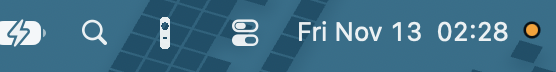
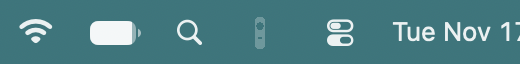
Add Settings screenshots and bilingual usage README.
Document the glass Settings window, A2854 hardware, and personal-use
permissions without device identifiers.

diff --git a/README.md b/README.md
@@ -1,36 +1,54 @@
 # RmoteVibe
 
-Use an **Apple TV Siri Remote** (HID vendor `0x004C`, product `0x0315`, A2854) as a Mac pointer, keyboard, and push-to-talk mic.
+Personal Mac menu-bar app. **Not** for the Mac App Store.
 
-Pair it in Bluetooth like any HID remote. RmoteVibe does **not** need the remote’s serial number.
+Use a **USB-C Apple TV Siri Remote** (model A2854, Apple VID `0x004C` PID `0x0315`, Bluetooth LE HID) as a pointer, keyboard, and push-to-talk mic on Apple Silicon macOS.
 
-用 **Apple TV Siri Remote**（HID 厂商 `0x004C`、产品 `0x0315`，A2854）当 Mac 的触控板、按键和按住说话麦克风。
+个人用的 Mac 菜单栏应用，**不上** Mac App Store。
 
-在系统蓝牙里配对即可。序列号不是配置项。
+把 **USB-C Apple TV Siri Remote**（型号 A2854，Apple VID `0x004C` PID `0x0315`，蓝牙 LE HID）当成 Apple Silicon Mac 的触控板、按键和按住说话麦克风。
 
 ![App icon](docs/screenshots/app-icon.png)
 
 <p align="center">
-  <img src="docs/screenshots/menu-bar.png" alt="Menu bar" width="480">
-  <img src="docs/screenshots/settings.png" alt="Settings" width="480">
+  <img src="docs/screenshots/menu-bar.png" alt="Menu bar icon" width="520">
 </p>
 
-## Features · 功能
+## Usage · 用法
 
-- **Hold Siri for 豆包 / WeChat.** Holding the side Siri button posts the talk key (Fn by default) and, while a Bluetooth HCI trace is readable, feeds the remote’s Opus voice into **RmoteVibe Mic**. 豆包 or 微信输入法 does the recognition. On release, the virtual mic goes back to the Mac microphone.
-- **按住 Siri 给豆包 / 微信说话。** 按住侧面 Siri 键会发出按住说话热键（默认 Fn）。蓝牙 HCI 记录可读时，遥控器的 Opus 语音写入 **RmoteVibe Mic**。识别仍由豆包或微信输入法完成。松开后虚拟麦回到这台 Mac 的麦克风。
-- **Trackpad.** One finger moves the pointer. A short tap clicks. An edge swipe scrolls. Click-ring center plus travel drags.
-- **触控板。** 单指移动指针，短按点击，边缘滑动滚动。按住圆环中心再移动即可拖拽。
-- **Button maps.** Back, Home, Play/Pause, Mute, Volume stay remappable in Settings. Siri stays on voice. Click-ring directions are not mapped in this version.
-- **按键映射。** 返回、主页、播放/暂停、静音、音量可在设置里改。Siri 只负责语音。这一版不映射圆环方向键。
-- **Login item.** Open at login via `SMAppService` (on by default; macOS may still ask in Login Items).
-- **登录项。** 默认用 `SMAppService` 开机启动（系统仍可能要你在「登录项」里点一次允许）。
+- **Menu bar + Settings.** Lives in the menu bar. **Settings…** opens a glass sidebar window (General, Remote, Buttons, Touch, Voice, Permissions).
+- **菜单栏 + 设置。** 驻留菜单栏。点 **设置…** 打开玻璃侧边栏窗口（通用、遥控器、按键、触控、语音、权限）。
+- **Hold Siri = push-to-talk.** Holding the side Siri button feeds the remote mic into **RmoteVibe Mic** (HAL plugin). Doubao (豆包) or WeChat IME (微信输入法) does the recognition. Leave 豆包’s input source on **Auto**.
+- **按住 Siri = 按住说话。** 按住侧面 Siri 键，遥控麦克风写入 **RmoteVibe Mic**（HAL 插件）。识别仍由豆包 / 微信输入法完成。豆包输入源保持 **自动**。
+- **Touch.** Move the pointer, tap to click, edge-swipe to scroll, center-hold to drag. Default gain **680**.
+- **触控。** 移动指针、点按、边缘滑动滚动、按住中心拖拽。默认增益 **680**。
+- **Buttons.** Back, Home, Play/Pause, Mute, Volume are remappable. **Siri stays on voice.** Defaults: Back → Escape, Home → Return.
+- **按键。** 返回、主页、播放/暂停、静音、音量可改。**Siri 只负责语音。** 默认：返回 → Escape，主页 → Return。
+- **Permissions.** Grant **Accessibility** and **Input Monitoring** (and Bluetooth, Microphone, Login Items). An ad-hoc replace can drop TCC; toggle them again if that happens.
+- **权限。** 需要 **辅助功能** 和 **输入监视**（以及蓝牙、麦克风、登录项）。临时签名换包可能丢掉授权，那时再开一次。
+
+## Hardware · 硬件
+
+| | |
+| --- | --- |
+| Remote · 遥控器 | USB-C Apple TV Siri Remote, model **A2854** |
+| HID | Apple vendor `0x004C`, product `0x0315`, Bluetooth LE HID |
+| Pairing · 配对 | Hold **Back + Volume Up** ~5 seconds until the light flashes · 按住 **返回 + 音量加** 约五秒直到灯闪 |
+| Mac | Apple Silicon macOS |
+
+The remote is exclusive: turn the Apple TV off or unplug it, or it reconnects there. Pair in RmoteVibe Settings or in Bluetooth settings. Connected means IOHID sees product `0x0315`. No serial number is required.
+
+遥控器同时只能连一边：先关掉或拔掉 Apple TV。在 RmoteVibe 设置或系统蓝牙里配对。连上的标志是 IOHID 看到产品号 `0x0315`。不需要序列号。
 
 ## Screenshots · 截图
 
-| Menu bar · 菜单栏 | Settings · 设置 | App icon · 图标 |
-| --- | --- | --- |
-| ![Menu bar](docs/screenshots/menu-bar.png) | ![Settings](docs/screenshots/settings.png) | ![App icon](docs/screenshots/app-icon.png) |
+| General · 通用 | Buttons · 按键 |
+| --- | --- |
+| ![General](docs/screenshots/general.png) | ![Buttons](docs/screenshots/buttons.png) |
+
+| Touch · 触控 | Voice · 语音 |
+| --- | --- |
+| ![Touch](docs/screenshots/touch.png) | ![Voice](docs/screenshots/voice.png) |
 
 ## Build · 编译
 
@@ -49,13 +67,13 @@ The app is signed **ad-hoc** (`CODE_SIGN_IDENTITY = "-"`). Copy `build/Release/R
 
 ### HAL plugin · 音频插件（sudo 一次）
 
-RmoteVibe Mic is a Core Audio HAL plug-in. Install it once from **Settings → Install RmoteVibe Mic** (AppleScript `sudo` prompt). That copies the driver to `/Library/Audio/Plug-Ins/HAL/RmoteVibeMic.driver` and restarts `coreaudiod`. Replacing the app later does not always reinstall the plug-in.
+RmoteVibe Mic is a Core Audio HAL plug-in. Install it once from **Settings → Voice → Install RmoteVibe Mic** (AppleScript `sudo` prompt). That copies the driver to `/Library/Audio/Plug-Ins/HAL/RmoteVibeMic.driver` and restarts `coreaudiod`. Replacing the app later does not always reinstall the plug-in.
 
-RmoteVibe Mic 是 Core Audio HAL 插件。在 **设置 → 安装 RmoteVibe Mic** 装一次（会弹出管理员密码）。驱动拷到 `/Library/Audio/Plug-Ins/HAL/RmoteVibeMic.driver` 并重启 `coreaudiod`。以后只替换 App 不一定会重装插件。
+RmoteVibe Mic 是 Core Audio HAL 插件。在 **设置 → 语音 → 安装 RmoteVibe Mic** 装一次（会弹出管理员密码）。驱动拷到 `/Library/Audio/Plug-Ins/HAL/RmoteVibeMic.driver` 并重启 `coreaudiod`。以后只替换 App 不一定会重装插件。
 
-Leave the **system default input** on the Mac microphone. Select **RmoteVibe Mic** once inside 豆包 (or Auto).
+Leave the **system default input** on the Mac microphone. Select **RmoteVibe Mic** once inside 豆包, or leave 豆包 on **Auto**.
 
-系统默认输入保持 Mac 自己的麦克风。在豆包里选一次 **RmoteVibe Mic**（或自动）。
+系统默认输入保持 Mac 自己的麦克风。在豆包里选一次 **RmoteVibe Mic**，或保持 **自动**。
 
 ## Permissions · 权限
 
@@ -70,15 +88,6 @@ Grant these in System Settings. An ad-hoc rebuild can drop some of them, so togg
 | **Input Monitoring** | Read HID from vendor `0x004C` product `0x0315` · 读取该 HID 设备 |
 | **Microphone** | Play the Mac mic through RmoteVibe Mic when Siri is not held · 没按住 Siri 时把 Mac 麦送到虚拟麦 |
 | **Login Items** | Open at login · 开机启动 |
-
-## Pairing · 配对
-
-1. Turn the Apple TV off or unplug it. The remote is exclusive.
-2. Hold **Back + Volume Up** about five seconds until the light flashes.
-3. Search in RmoteVibe Settings, or connect it in Bluetooth settings. It often appears as a serial-looking name, not “Siri Remote”. You do not enter that serial anywhere.
-4. Connected means IOHID sees product `0x0315`.
-
-关掉或拔掉 Apple TV（遥控器同时只能连一边）。按住 **返回 + 音量加** 约五秒直到灯闪。在 RmoteVibe 设置里搜索，或到系统蓝牙里连接。设备名经常是一串序号，不是 “Siri Remote”；不必把它填进 App。连上的标志是 IOHID 看到产品号 `0x0315`。
 
 ## License
 
